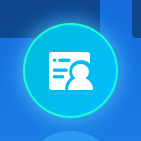
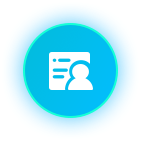
11

diff --git a/jsq/src/components/index/index.vue b/jsq/src/components/index/index.vue
@@ -144,8 +144,8 @@
 	.view_index_index{
 		width: 100%;
 		height: 100vh;
-		background: linear-gradient(180deg, #0010B4 0%, #209CF2 100%);
-		background: @default-color;/* ie9 */
+		background: url(../../assets/img/bg.png);
+		//background: @default-color;/* ie9 */
 		box-shadow: 0px 2px 46px 0px rgba(13, 17, 61, 0.38), 0px 2px 4px 0px rgba(0, 0, 0, 0.3);
 		color: #fff;
 		.header{
@@ -280,6 +280,7 @@
 						}
 						img:nth-child(2){
 							display: block;
+							transform: scale(1.6);
 						} 
 					}
 				}
